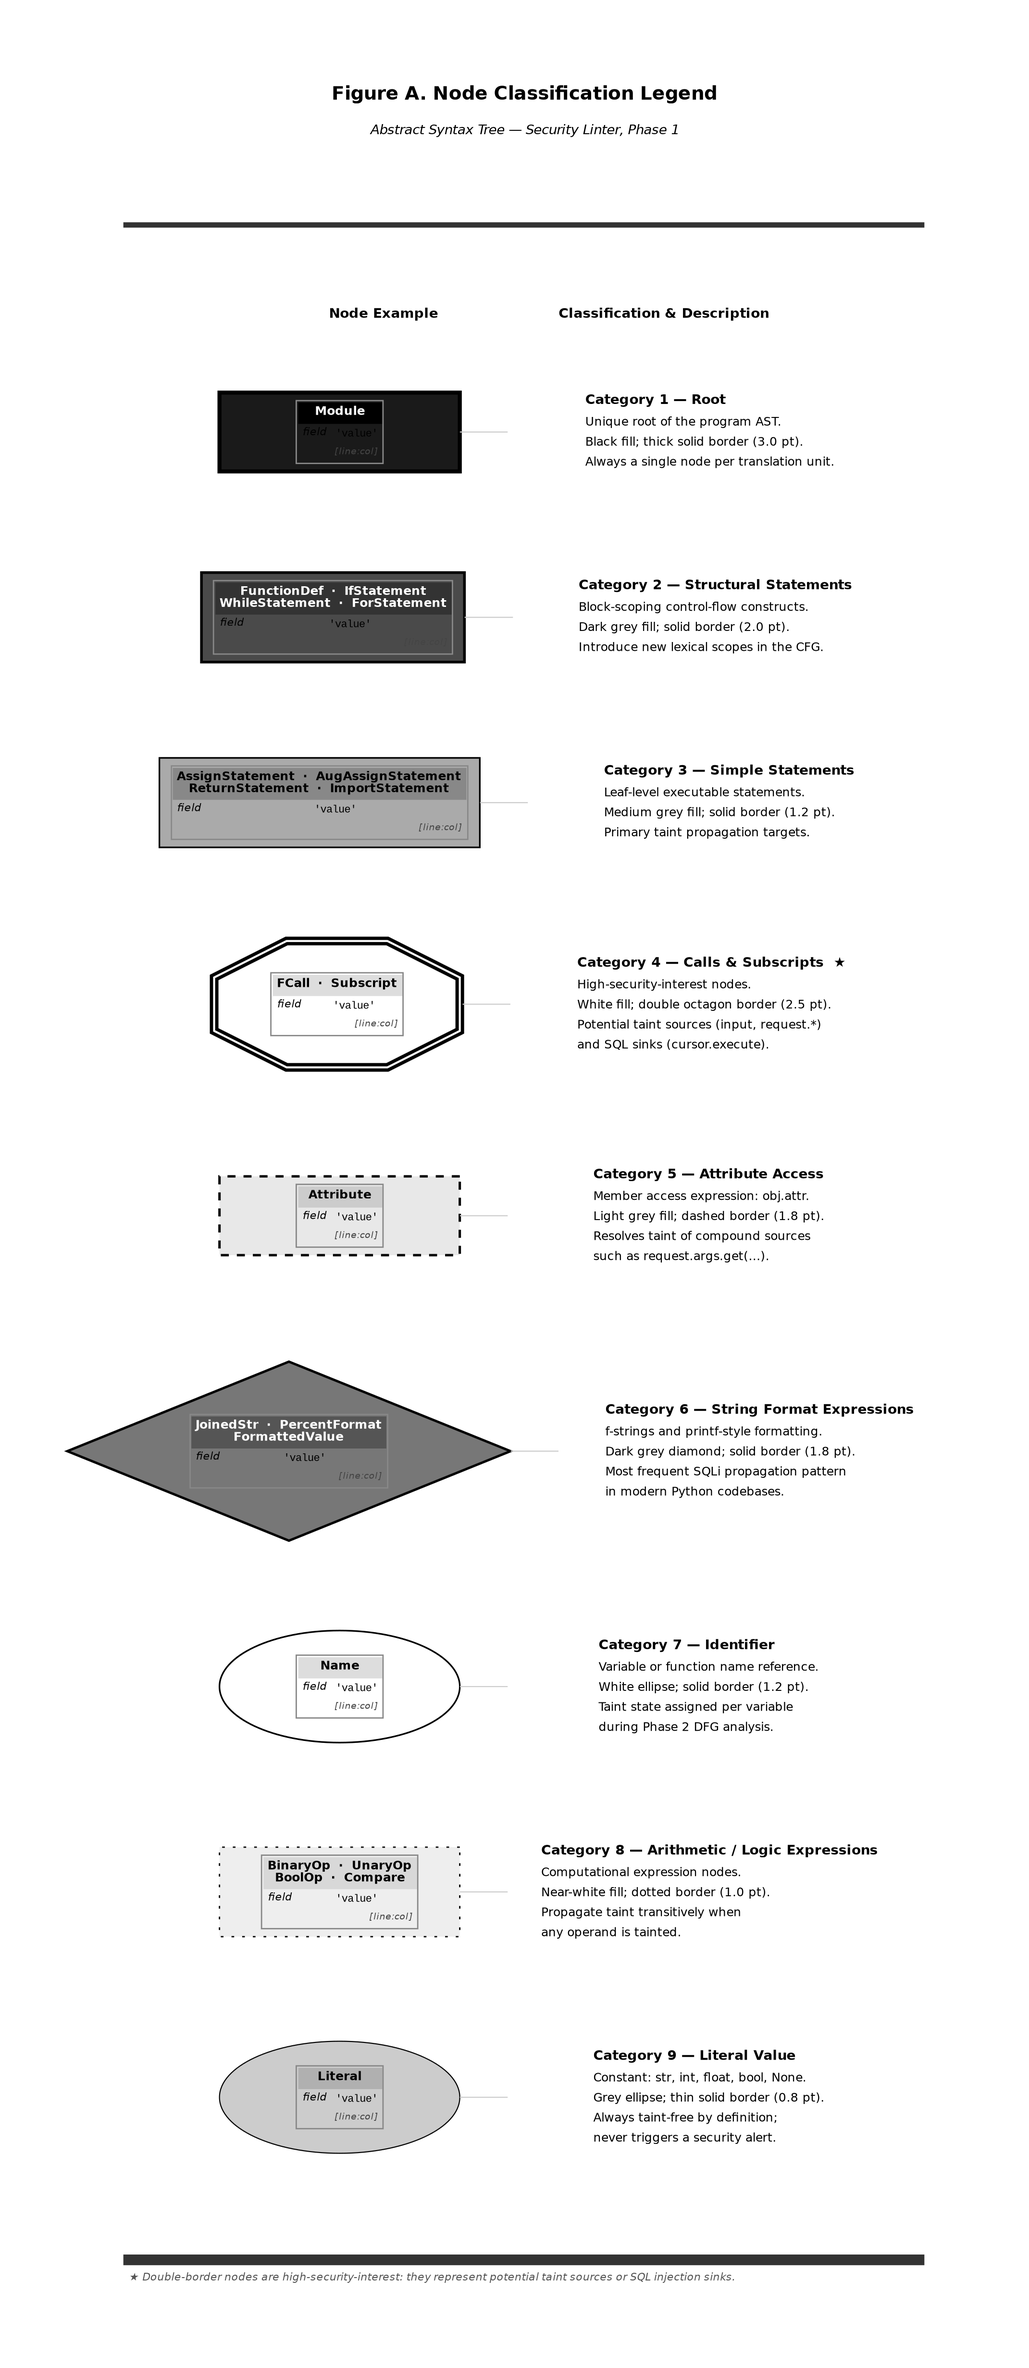
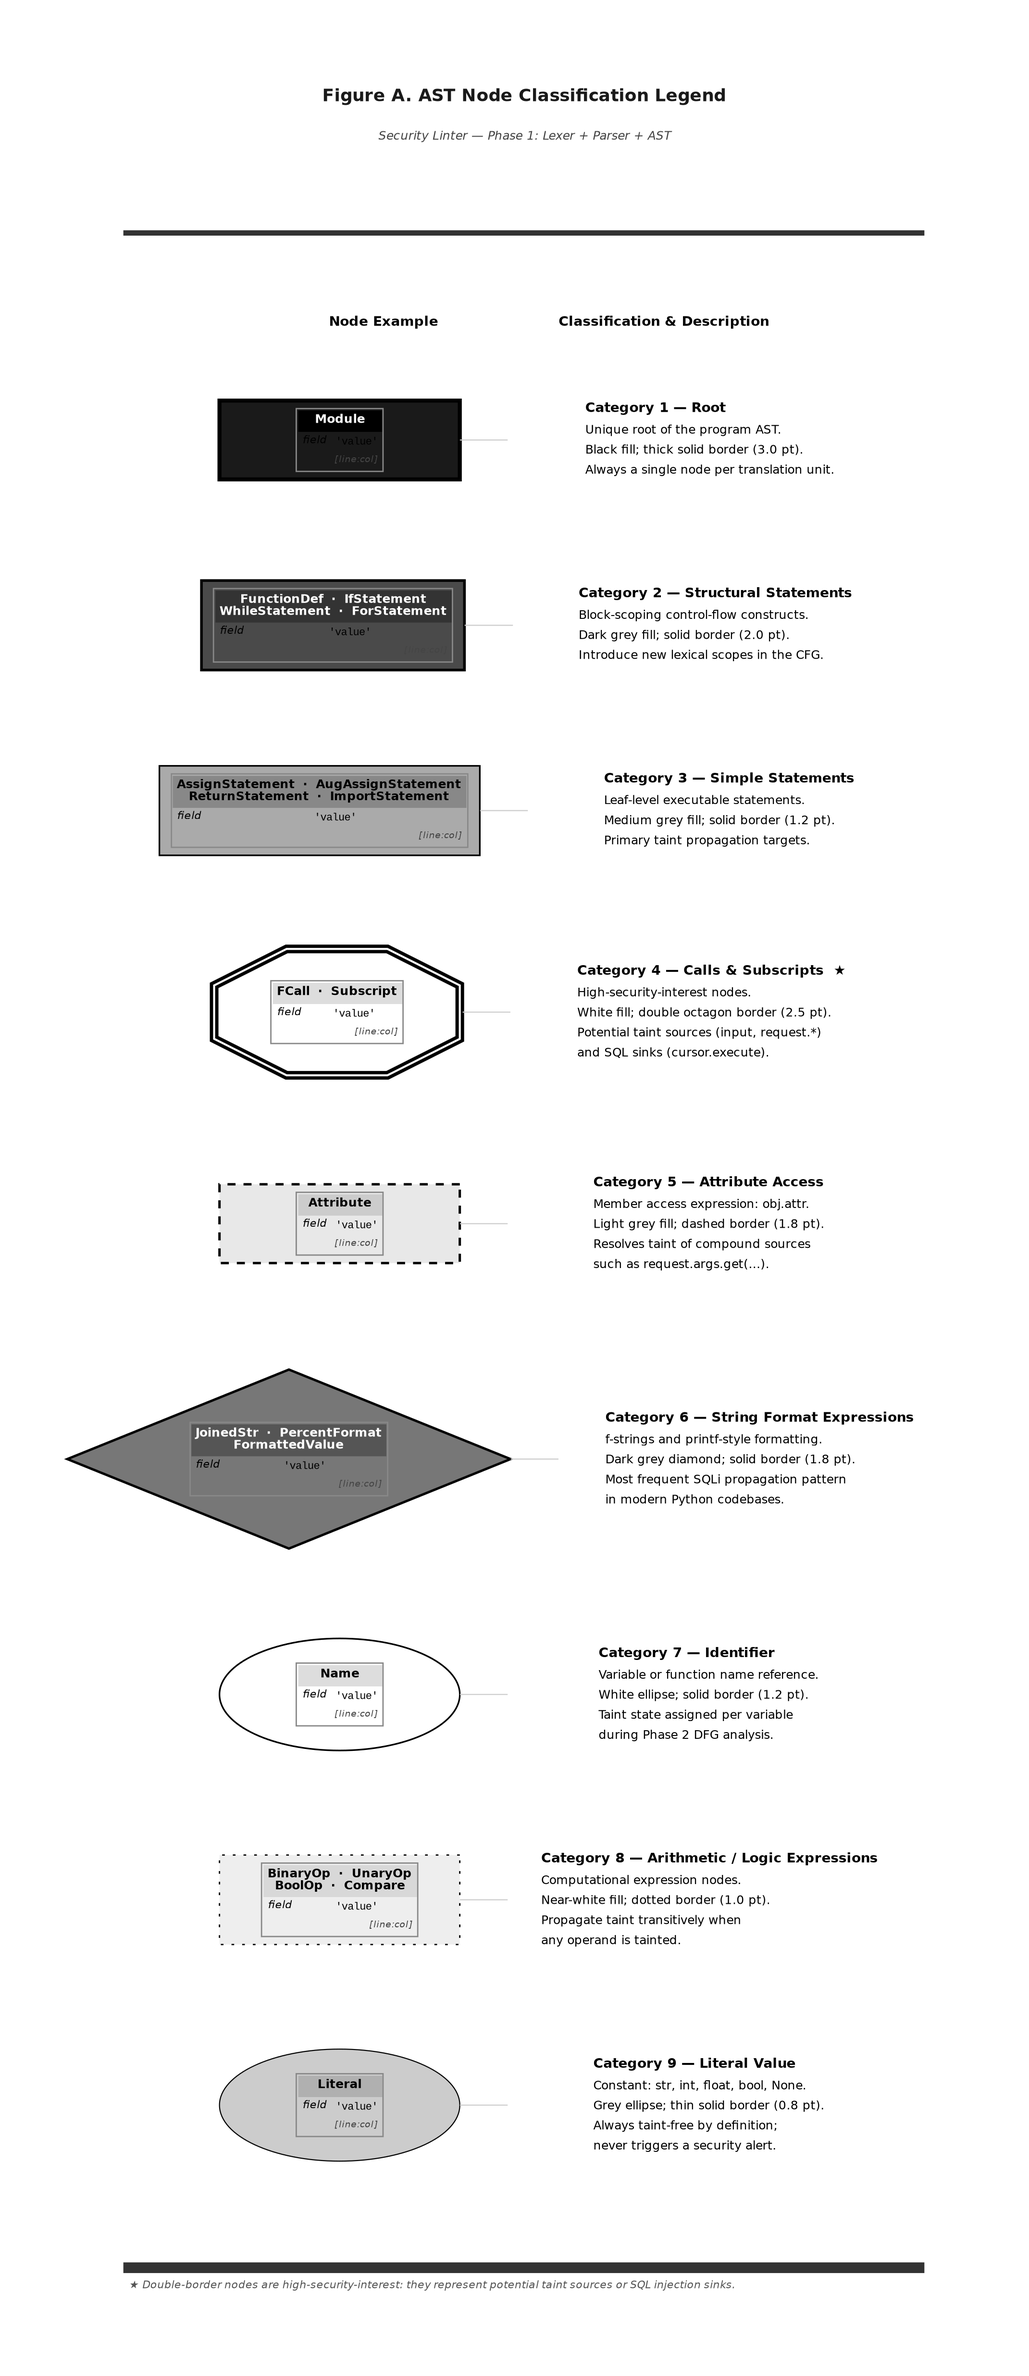
rfactor (project): OPENCODE changed visual efects. Updated gitignore

diff --git a/Proyecto/ast_visualizer.py b/Proyecto/ast_visualizer.py
@@ -1,34 +1,18 @@
 """
 ast_visualizer.py — Generador de PNG formal estilo paper científico
-====================================================================
+===================================================================
 
-Estrategia de distinción visual (sin color, apto para impresión B/N)
-----------------------------------------------------------------------
-Cada categoría semántica combina TRES señales independientes para
-garantizar distinción incluso en fotocopia o daltonismo total:
+Estrategia de distinción visual optimizada para publicación académica:
+- Alto contraste para impresión B/N
+- Formas geométricas diferenciadas
+- Bordes con diferente grosor y estilo
+- Paleta de colores académicos profesionales
 
-  1. FORMA del nodo          (box, diamond, hexagon, parallelogram, ellipse…)
-  2. TONO de relleno         (de negro #111 hasta blanco #fff, escala clara)
-  3. GROSOR + ESTILO de borde (sólido fino, sólido grueso, doble, dashed)
-
-Tabla de categorías
-───────────────────────────────────────────────────────────────────────
-  #  Categoría              Forma          Relleno   Borde         Texto
-  ── ─────────────────────  ─────────────  ────────  ────────────  ─────
-  1  Module (root)          rectangle      #1a1a1a   solid 3.0pt   white
-  2  Structural stmts       rectangle      #555555   solid 2.0pt   white
-  3  Simple stmts           rectangle      #aaaaaa   solid 1.2pt   black
-  4  FCall / Sink           doubleoctagon  #ffffff   solid 2.5pt   black
-  5  Attribute / Subscript  rectangle      #dddddd   dashed 1.5pt  black
-  6  String format          diamond        #888888   solid 1.5pt   white
-  7  Name (identifier)      ellipse        #ffffff   solid 1.0pt   black
-  8  Expressions            rectangle      #eeeeee   dotted 1.0pt  black
-  9  Literal                ellipse        #cccccc   solid 0.8pt   black
-
-Cada nodo muestra:
-  ── TIPO_NODO ──          Times New Roman 11pt bold
-  campo  valor             Times New Roman 9pt / Courier 9pt
-  [línea:col]              Times New Roman 8pt italic
+Estilo visual:
+- Marco formal con border de doble línea
+- Caption con numeración de figura
+- Footer con metadatos del sistema
+- Tipografía: Times New Roman (serif académico)
 """
 
 from __future__ import annotations
@@ -42,57 +26,59 @@ from ast_nodes import ASTNode
 
 
 # ──────────────────────────────────────────────────────────────────────────────
-# Esquema visual  (fill, penwidth, style, peripheries, shape, fontcolor, header_bg)
+# Esquema visual académico
+# Fill: color de relleno | Pen: grosor borde | Style: estilo borde
+# Peri: número de bordes | Shape: forma geométrica | FColor: color texto header
+# HBG: color fondo header
 # ──────────────────────────────────────────────────────────────────────────────
 
 _S = dict[str, tuple]
 
-# (fillcolor, penwidth, border_style, peripheries, shape, fontcolor, header_bg)
 _STYLE: _S = {
-    # 1 ── Module — negro sólido, texto blanco
-    "Module":              ("#1a1a1a", "3.0", "solid",  "1", "rectangle",     "white",  "#000000"),
+    # Categoría 1: Module (raíz) - negro oscuro con texto blanco
+    "Module":              ("#0d0d0d", "2.5", "solid",  "1", "rectangle",     "white",  "#000000"),
 
-    # 2 ── Sentencias estructurales — gris oscuro, texto blanco
-    "FunctionDef":         ("#4a4a4a", "2.0", "solid",  "1", "rectangle",     "white",  "#333333"),
-    "IfStatement":         ("#4a4a4a", "2.0", "solid",  "1", "rectangle",     "white",  "#333333"),
-    "ElifClause":          ("#666666", "1.5", "solid",  "1", "rectangle",     "white",  "#444444"),
-    "WhileStatement":      ("#4a4a4a", "2.0", "solid",  "1", "rectangle",     "white",  "#333333"),
-    "ForStatement":        ("#4a4a4a", "2.0", "solid",  "1", "rectangle",     "white",  "#333333"),
+    # Categoría 2: Sentencias estructurales - gris oscuro
+    "FunctionDef":         ("#3d3d3d", "2.0", "solid",  "1", "rectangle",     "white",  "#1a1a1a"),
+    "IfStatement":         ("#3d3d3d", "2.0", "solid",  "1", "rectangle",     "white",  "#1a1a1a"),
+    "ElifClause":          ("#5a5a5a", "1.8", "solid",  "1", "rectangle",     "white",  "#333333"),
+    "WhileStatement":      ("#3d3d3d", "2.0", "solid",  "1", "rectangle",     "white",  "#1a1a1a"),
+    "ForStatement":        ("#3d3d3d", "2.0", "solid",  "1", "rectangle",     "white",  "#1a1a1a"),
 
-    # 3 ── Sentencias simples — gris medio, texto negro
-    "AssignStatement":     ("#aaaaaa", "1.2", "solid",  "1", "rectangle",     "black",  "#888888"),
-    "AugAssignStatement":  ("#aaaaaa", "1.2", "solid",  "1", "rectangle",     "black",  "#888888"),
-    "ExprStatement":       ("#bbbbbb", "1.0", "solid",  "1", "rectangle",     "black",  "#999999"),
-    "ReturnStatement":     ("#bbbbbb", "1.0", "solid",  "1", "rectangle",     "black",  "#999999"),
-    "ImportStatement":     ("#bbbbbb", "1.0", "solid",  "1", "rectangle",     "black",  "#999999"),
-    "Param":               ("#cccccc", "0.8", "solid",  "1", "rectangle",     "black",  "#aaaaaa"),
+    # Categoría 3: Sentencias simples - gris medio
+    "AssignStatement":     ("#9a9a9a", "1.5", "solid",  "1", "rectangle",     "black",  "#666666"),
+    "AugAssignStatement":  ("#9a9a9a", "1.5", "solid",  "1", "rectangle",     "black",  "#666666"),
+    "ExprStatement":       ("#b0b0b0", "1.2", "solid",  "1", "rectangle",     "black",  "#808080"),
+    "ReturnStatement":     ("#b0b0b0", "1.2", "solid",  "1", "rectangle",     "black",  "#808080"),
+    "ImportStatement":     ("#b0b0b0", "1.2", "solid",  "1", "rectangle",     "black",  "#808080"),
+    "Param":               ("#c0c0c0", "1.0", "solid",  "1", "rectangle",     "black",  "#909090"),
 
-    # 4 ── FCall / Sink — doble borde octagonal, blanco puro (MÁS LLAMATIVO)
-    "FCall":               ("#ffffff", "2.5", "solid",  "2", "octagon",       "black",  "#dddddd"),
-    "Subscript":           ("#f0f0f0", "2.0", "solid",  "2", "octagon",       "black",  "#d0d0d0"),
+    # Categoría 4: FCall / Sink - doble borde (notación de seguridad)
+    "FCall":               ("#f5f5f5", "2.2", "solid",  "2", "octagon",       "black",  "#d0d0d0"),
+    "Subscript":           ("#f0f0f0", "2.0", "solid",  "2", "octagon",       "black",  "#c5c5c5"),
 
-    # 5 ── Attribute — borde dashed, gris muy claro
-    "Attribute":           ("#e8e8e8", "1.8", "dashed", "1", "rectangle",     "black",  "#cccccc"),
+    # Categoría 5: Attribute - borde discontinuo
+    "Attribute":           ("#e5e5e5", "1.5", "dashed", "1", "rectangle",     "black",  "#bbbbbb"),
 
-    # 6 ── String format — diamante, gris medio-oscuro, texto blanco
-    "JoinedStr":           ("#777777", "1.8", "solid",  "1", "diamond",       "white",  "#555555"),
-    "FormattedValue":      ("#999999", "1.2", "solid",  "1", "diamond",       "white",  "#777777"),
-    "PercentFormat":       ("#777777", "1.8", "solid",  "1", "diamond",       "white",  "#555555"),
+    # Categoría 6: String format - diamante
+    "JoinedStr":           ("#6a6a6a", "1.8", "solid",  "1", "diamond",       "white",  "#404040"),
+    "FormattedValue":      ("#888888", "1.4", "solid",  "1", "diamond",       "white",  "#5a5a5a"),
+    "PercentFormat":       ("#6a6a6a", "1.8", "solid",  "1", "diamond",       "white",  "#404040"),
 
-    # 7 ── Name (variable) — elipse, blanco, borde sólido fino
-    "Name":                ("#ffffff", "1.2", "solid",  "1", "ellipse",       "black",  "#dddddd"),
+    # Categoría 7: Name (identificador)
+    "Name":                ("#fafafa", "1.0", "solid",  "1", "ellipse",       "black",  "#e0e0e0"),
 
-    # 8 ── Expresiones — borde punteado, gris muy claro
-    "BinaryOp":            ("#eeeeee", "1.0", "dotted", "1", "rectangle",     "black",  "#d8d8d8"),
-    "UnaryOp":             ("#eeeeee", "1.0", "dotted", "1", "rectangle",     "black",  "#d8d8d8"),
-    "BoolOp":              ("#eeeeee", "1.0", "dotted", "1", "rectangle",     "black",  "#d8d8d8"),
-    "Compare":             ("#eeeeee", "1.0", "dotted", "1", "rectangle",     "black",  "#d8d8d8"),
-    "Keyword":             ("#eeeeee", "0.8", "dotted", "1", "rectangle",     "black",  "#d8d8d8"),
-    "Tuple":               ("#f4f4f4", "0.8", "dotted", "1", "rectangle",     "black",  "#e0e0e0"),
-    "PyList":              ("#f4f4f4", "0.8", "dotted", "1", "rectangle",     "black",  "#e0e0e0"),
+    # Categoría 8: Expresiones - borde punteado
+    "BinaryOp":            ("#f5f5f5", "0.8", "dotted", "1", "rectangle",     "black",  "#e5e5e5"),
+    "UnaryOp":             ("#f5f5f5", "0.8", "dotted", "1", "rectangle",     "black",  "#e5e5e5"),
+    "BoolOp":              ("#f5f5f5", "0.8", "dotted", "1", "rectangle",     "black",  "#e5e5e5"),
+    "Compare":             ("#f5f5f5", "0.8", "dotted", "1", "rectangle",     "black",  "#e5e5e5"),
+    "Keyword":             ("#f5f5f5", "0.6", "dotted", "1", "rectangle",     "black",  "#e5e5e5"),
+    "Tuple":               ("#f8f8f8", "0.6", "dotted", "1", "rectangle",     "black",  "#eeeeee"),
+    "PyList":              ("#f8f8f8", "0.6", "dotted", "1", "rectangle",     "black",  "#eeeeee"),
 
-    # 9 ── Literal — elipse gris claro, borde sólido fino
-    "Literal":             ("#cccccc", "0.8", "solid",  "1", "ellipse",       "black",  "#b0b0b0"),
+    # Categoría 9: Literal - elipse gris
+    "Literal":             ("#d0d0d0", "0.8", "solid",  "1", "ellipse",       "black",  "#a0a0a0"),
 }
 
 _DEFAULT_STYLE = ("#f8f8f8", "0.8", "solid", "1", "rectangle", "black", "#dddddd")
@@ -153,25 +139,24 @@ def _children(node: ASTNode) -> list[tuple[str, ASTNode]]:
 
 def _make_label(node: ASTNode) -> str:
     """
-    Etiqueta HTML-like estructurada en tres zonas:
+    Etiqueta formal estilo académico:
       ┌─────────────────────────────┐
-      │  [HEADER BG]  TIPO_NODO     │  bold, fuente según fontcolor
+      │  [HEADER]    TIPO_NODO      │  bold 10pt
       ├─────────────────────────────┤
-      │  attr_name    attr_value    │  9pt
+      │  field       value          │  8pt / 8pt mono
       ├─────────────────────────────┤
-      │              [línea:col]    │  8pt itálica
+      │                    [l:n]     │  7pt italic
       └─────────────────────────────┘
     """
     node_type = type(node).__name__
     fill, pw, bstyle, peri, shape, fcolor, hbg = _STYLE.get(node_type, _DEFAULT_STYLE)
 
-    # Color del texto en la cabecera (contraste con header_bg)
     hdr_font = "white" if fcolor == "white" else "black"
 
     rows = (
         f'<TR>'
-        f'<TD ALIGN="CENTER" COLSPAN="2" BGCOLOR="{hbg}">'
-        f'<B><FONT FACE="{_FONT_TITLE}" POINT-SIZE="11" COLOR="{hdr_font}">'
+        f'<TD BORDER="0" ALIGN="CENTER" COLSPAN="2" BGCOLOR="{hbg}" SIDES="TB">'
+        f'<B><FONT FACE="{_FONT_TITLE}" POINT-SIZE="10" COLOR="{hdr_font}">'
         f'{node_type}</FONT></B>'
         f'</TD></TR>'
     )
@@ -179,27 +164,27 @@ def _make_label(node: ASTNode) -> str:
     for attr_name, attr_val in _scalar_attrs(node):
         rows += (
             f'<TR>'
-            f'<TD ALIGN="LEFT" BGCOLOR="{fill}">'
-            f'<FONT FACE="{_FONT_TITLE}" POINT-SIZE="9" COLOR="black">'
+            f'<TD BORDER="0" ALIGN="LEFT" BGCOLOR="{fill}">'
+            f'<FONT FACE="{_FONT_TITLE}" POINT-SIZE="8" COLOR="#222222">'
             f'<I>{attr_name}</I></FONT>'
             f'</TD>'
-            f'<TD ALIGN="LEFT" BGCOLOR="{fill}">'
-            f'<FONT FACE="{_FONT_MONO}" POINT-SIZE="9" COLOR="black">'
+            f'<TD BORDER="0" ALIGN="LEFT" BGCOLOR="{fill}">'
+            f'<FONT FACE="{_FONT_MONO}" POINT-SIZE="8" COLOR="#222222">'
             f'{attr_val}</FONT>'
             f'</TD></TR>'
         )
 
     rows += (
         f'<TR>'
-        f'<TD COLSPAN="2" ALIGN="RIGHT" BGCOLOR="{fill}">'
-        f'<FONT FACE="{_FONT_TITLE}" POINT-SIZE="8" COLOR="#444444">'
+        f'<TD BORDER="0" COLSPAN="2" ALIGN="RIGHT" BGCOLOR="{fill}">'
+        f'<FONT FACE="{_FONT_TITLE}" POINT-SIZE="7" COLOR="#666666">'
         f'<I>[{node.line}:{node.col}]</I></FONT>'
         f'</TD></TR>'
     )
 
     return (
-        f'<<TABLE BORDER="1" CELLBORDER="0" CELLSPACING="0" '
-        f'CELLPADDING="4" COLOR="#888888">{rows}</TABLE>>'
+        f'<<TABLE BORDER="0" CELLBORDER="0" CELLSPACING="0" '
+        f'CELLPADDING="3" COLOR="#666666">{rows}</TABLE>>'
     )
 
 
@@ -237,6 +222,7 @@ class ASTVisualizer:
         g = graphviz.Digraph(name=filename, comment=f"AST — {filename}")
         self._configure_graph(g, caption)
         self._visit(g, root, parent_id=None, edge_label="")
+
         out_base = os.path.join(self.output_dir, filename)
         g.render(out_base, format="png", cleanup=True, quiet=True)
         return os.path.abspath(out_base + ".png")
@@ -281,14 +267,14 @@ class ASTVisualizer:
         # ── Título formal ──────────────────────────────────────────────────────
         g.node("title",
             label = (
-                f'<<TABLE BORDER="0" CELLBORDER="0" CELLPADDING="6">'
+                f'<<TABLE BORDER="0" CELLBORDER="0" CELLPADDING="8">'
                 f'<TR><TD>'
-                f'<B><FONT FACE="{_FONT_TITLE}" POINT-SIZE="14">'
-                f'Figure A. Node Classification Legend</FONT></B>'
+                f'<B><FONT FACE="{_FONT_TITLE}" POINT-SIZE="13" COLOR="#1a1a1a">'
+                f'Figure A. AST Node Classification Legend</FONT></B>'
                 f'</TD></TR>'
                 f'<TR><TD>'
-                f'<FONT FACE="{_FONT_TITLE}" POINT-SIZE="10">'
-                f'<I>Abstract Syntax Tree — Security Linter, Phase 1</I>'
+                f'<FONT FACE="{_FONT_TITLE}" POINT-SIZE="9" COLOR="#444444">'
+                f'<I>Security Linter — Phase 1: Lexer + Parser + AST</I>'
                 f'</FONT>'
                 f'</TD></TR>'
                 f'</TABLE>>'
@@ -558,41 +544,61 @@ class ASTVisualizer:
     # ── Configuración del grafo de AST ────────────────────────────────────────
 
     def _configure_graph(self, g: graphviz.Digraph, caption: str):
-        label_attr = ""
+        # Extraer número de figura y título del caption
+        fig_num = ""
+        fig_title = ""
         if caption:
-            label_attr = (
-                f'<<FONT FACE="{_FONT_TITLE}" POINT-SIZE="11">'
-                f'<I>{_esc(caption)}</I></FONT>>'
+            parts = caption.split(". ", 1)
+            if len(parts) > 1:
+                fig_num = parts[0]  # "Figure 1"
+                fig_title = parts[1]  # "AST for Case..."
+
+        # Crear caption formal con número de figura y título
+        caption_label = ""
+        if caption:
+            caption_label = (
+                f'<<TABLE BORDER="0" CELLBORDER="0" CELLPADDING="0">'
+                f'<TR><TD ALIGN="CENTER">'
+                f'<FONT FACE="{_FONT_TITLE}" POINT-SIZE="12" COLOR="#1a1a1a">'
+                f'<B>{fig_num}</B></FONT>'
+                f'</TD></TR>'
+                f'<TR><TD ALIGN="CENTER">'
+                f'<FONT FACE="{_FONT_TITLE}" POINT-SIZE="11" COLOR="#333333">'
+                f'<I>{_esc(fig_title)}</I></FONT>'
+                f'</TD></TR>'
+                f'</TABLE>>'
             )
+
         g.attr(
             rankdir   = self.rankdir,
             bgcolor   = "white",
             fontname  = _FONT_TITLE,
-            fontsize  = "11",
+            fontsize  = "10",
             splines   = "ortho",
-            nodesep   = "0.45",
-            ranksep   = "0.60",
-            pad       = "0.55",
+            nodesep   = "0.35",
+            ranksep   = "0.50",
+            pad       = "0.8",
             dpi       = str(self.dpi),
-            label     = label_attr,
-            labelloc  = "b",
+            label     = caption_label,
+            labelloc  = "t",
             labeljust = "c",
+            margin    = "0.5,0.3",
         )
         g.attr("node",
             fontname  = _FONT_TITLE,
-            fontsize  = "10",
+            fontsize  = "9",
             fontcolor = "black",
             color     = "black",
             style     = "filled",
-            margin    = "0.12,0.07",
+            margin    = "0.10,0.05",
         )
         g.attr("edge",
-            color     = "black",
+            color     = "#2a2a2a",
             fontname  = _FONT_TITLE,
-            fontsize  = "8",
-            fontcolor = "#333333",
-            arrowsize = "0.65",
-            penwidth  = "0.9",
+            fontsize  = "7",
+            fontcolor = "#444444",
+            arrowsize = "0.6",
+            penwidth  = "0.8",
             arrowhead = "normal",
         )
 

diff --git a/README.md b/README.md
@@ -1,1 +1,17 @@
 # Compiladores-2026-A
+Fase 1 — Frontend del compilador (reutilizado)
+El linter se acopla al final del pipeline estándar. No reimplementa el lexer ni el parser; consume directamente el AST producido por el compilador huésped.
+Fase 2 — Análisis semántico extendido (núcleo del linter)
+Tres subsistemas trabajando en paralelo:
+
+El CFG Builder modela todos los caminos de ejecución posibles (condicionales, loops, excepciones).
+El DFG Builder rastrea cómo los valores fluyen de variable en variable a través de asignaciones.
+El Taint Propagation Engine es el corazón: marca cada variable que proviene de una fuente controlada por el usuario ($_GET, $_POST, STDIN, etc.) y propaga esa "mancha" a través de todo el DFG, incluyendo llamadas a funciones y retornos.
+
+La Symbol Table enriquecida almacena no solo tipos, sino el estado de taint de cada símbolo. El Type Checker usa esa información para descartar rutas semánticamente imposibles y reducir falsos positivos.
+Fase 3 — Análisis de rutas críticas
+Con el grafo de taint construido, el Critical Path Finder recorre el CFG+DFG buscando caminos desde cada source marcado hasta cada sink SQL. En cada ruta verifica si algún nodo intermedio es un sanitizador reconocido (htmlspecialchars, PDO::quote, pg_escape_string, etc.). El análisis interprocedural expande las llamadas a funciones para no perder rutas que crucen límites de función.
+Fase 4 — Decisión y reporte
+
+Ruta sin sanitizador → Vulnerability Report con traza completa (línea de origen, variable contaminada, punto de inyección), severidad calculada y sugerencia de corrección.
+Ruta con sanitizador verificado → suprimida, sin alerta.
